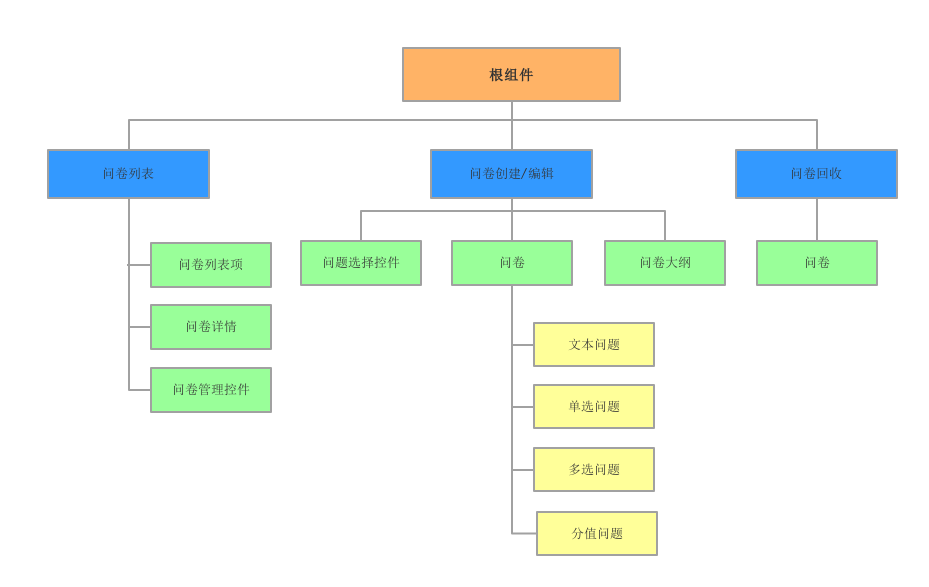
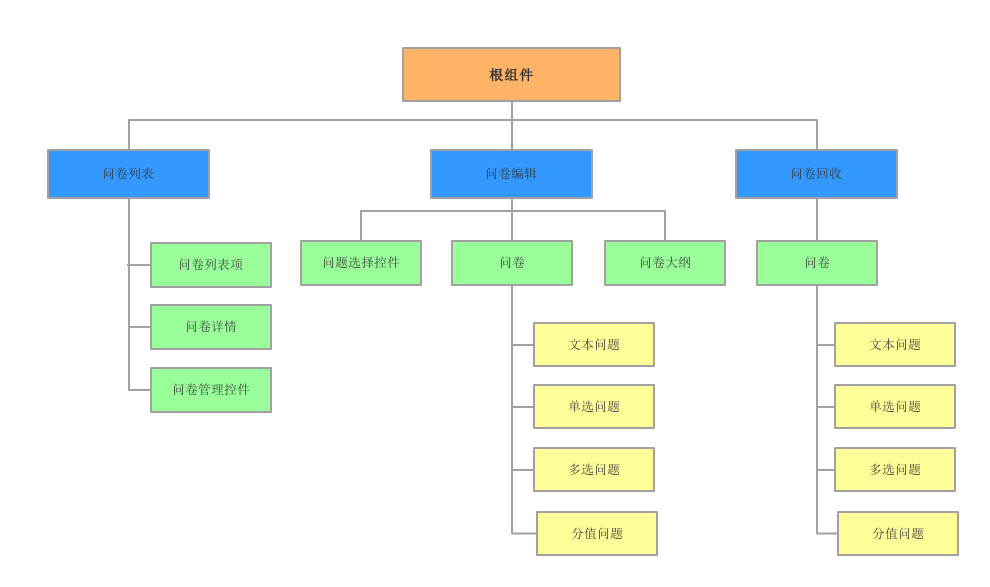
update 3.5

diff --git a/chapters/3.5.md b/chapters/3.5.md
@@ -2,15 +2,94 @@
 
 学习了用户管理功能之后，相信大家对Angular2组件的开发步骤有个进一步的了解。本章开始介绍问卷功能的开发。相比用户管理而言，问卷管理是更为复杂的功能，涉及更多的组件，也是整个问卷调查系统最核心的功能。为了简便起见，本章将主要针对问卷创建页面做详细的说明，其他相关页面可参考附录中的代码库。
 
-## 5.1 组件树和数据建模
+## 5.1 组件树和数据模型
 
-Angular2采用的是基于组件的开发模式，因此在正式开始代码编写之前，本节将首先对问卷管理特别是问卷创建功能涉及到的组件以及它们之间的关联关系做一个简单的说明。
+Angular2采用的是基于组件的开发模式，因此在正式开始代码编写之前，本节将首先对问卷管理特别是问卷编辑功能涉及到的组件以及它们之间的关联关系做一个简单的说明。
 
-### 5.1.2 组件树
+### 5.1.1 组件树
 
 在第二章中，我们介绍到了整个项目的组件树，这里针对问卷管理功能进一步细化，给出更为具体的组件树，如下图所示：
 
 ![MacDown tree](https://github.com/gf-rd/gf-angular2-book/blob/master/_images/ch3/5-1.png)
+
+可以看到，问卷管理部分主要分为问卷编辑、问卷列表和问卷回收三个主要功能，分别对应三类一级组件。
+
+#### 问卷编辑
+
+问卷编辑页可以创建新的问卷，也可以编辑已有问卷。问卷创建者通过问卷选择控件在问卷中添加新的问题，为了实时查看问卷已有问题，同时提供了问卷大纲功能。剩下的就是问卷编辑页面核心的问卷部分了，这里我们可以编辑开始语、结束语以及所有相关的问题。因此问卷编辑组件下包含问卷选择控件、问卷大纲和问卷三个子组件，并且问卷组件下包含有不同类型的问题组件。
+
+#### 问卷列表
+
+问卷列表页展示了问卷创建者创建的所有问卷，点击单个问卷项可以查看问卷详情。除此之外，还有一个问卷管理控件，包含问卷编辑、预览、发布等功能菜单。因此，问卷列表控件下包含了问卷列表项、问卷详情和问卷管理控件三个子组件。
+
+#### 问卷回收
+
+问卷编辑完成后，就可以点击发布进行问卷回收。问卷回收组件下包含有一个问卷子组件，且问卷组件下包含有不同类型的问题组件。
+
+至此，相信大家对问卷管理功能涉及到的组件以及它们之间的关系已经有个一个大概的了解。不过在正式进入到组件的开发过程之前，为了更好的帮助读者了解前后端的数据交互和组件功能，接下来将首先介绍下组件开发中会使用到的数据模型。
+
+### 5.1.2 数据模型
+
+本例中主要涉及到两类核心的数据模型，问卷模型和问题模型。接下来将对它们包含的属性及属性的含义做展开介绍。
+
+#### 问卷模型
+
+问卷模型是描述一个调查问卷的基本数据结构，包含了问卷所有的核心要素。完整的数据结构定义如下：
+
+	export interface QuestionnaireModel{
+  	  id?:number;	//问卷ID
+  	  title:string;	//问卷标题
+   	  owner:number;	//作者ID
+	  starter:string;	//开始问候语
+  	  ending:string;	//结束问候语
+	  state:QuestionnaireState;	//问卷状态
+	  questionList: QuestionModel[];	//问题列表
+	  createDate?:string;	//创建日期
+ 	}
+
+ 这里我们使用了接口去定义一个问卷模型，接下来将针对这些属性做逐一说明。
+
+ id的类型是数值型，是问卷的唯一性标识，属性后?号标识在使用接口的时候，该属性是非必须的，因为在问卷的id是在问卷保存的时候由后台自动生成的，所以在创建问卷阶段问卷的id是未知的。
+
+ owner是问卷作者的ID标识，可以根据该标识获取到问卷创建者的详细信息。
+
+ state是指问卷当前所处的状态，QuestionnaireState是一个枚举类型，每个枚举项分别对应着问卷的已创建状态、发布回收状态和完成状态。其中发布回收状态表示问卷已经对外发布，处于回收问卷填写信息阶段，完成状态表示问卷已经结束回收，调查通道也已关闭。问卷状态的定义如下：
+
+	export const enum QuestionnaireState{
+  	  Created,
+ 	  Published,
+  	  Finished
+	}
+
+ title、starter、ending以及创建时间都是简单的字符串类型，分别表示问卷的标题、开始问候语、结束问候语和问卷创建日期。
+
+questionList是构成问卷的问题列表，是一个数组类型。每个数组元素对应一个问题，QuestionModel是问题的类型定义，接下来就针对此类型做详细说明。
+
+#### 问题模型
+
+问题是构建一个问卷的基础，问卷模型详细的描述了一个完整的问题所需的基本要素。问卷的数据结构定义如下：
+
+	export interface QuestionModel{
+  	  title:string;	//问题标题（描述）
+  	  type:QuestionType;	//问题类型
+  	  options?:any[];	//答案选项
+  	  answer:any;	//问题答案
+	}
+
+和问卷模型类似，我们同样使用接口去定义一个问题模型。
+
+title是问题的标题，类型是字符串类型，用来描述一个问题。
+
+type属性标识问题的类型，或者可以说是问题控件的类型，这里使用了枚举类型QuestionType作为type的数据类型。目前程序支持的问题类型主要有文本题、单选题、多选题和分值题四类。QuestionType的枚举定义如下：
+
+	export const enum QuestionType{
+	  Text,
+	  SingleSelect,
+	  MultiSelect,
+	  Score
+	}
+
+options属性对应着答案的选项，因为不是所有的问题都具备可选择的答案选项，所以该属性是一个可选属性。在我们的例子中，单选题和多选题都具有可选的答案选型，而文本题和分值题则无此属性。这里需要特别说明的是为了方便扩展，我们并没有为options属性设置特定的数据类型，而是使用了any关键字标识。
 
 ## 5.2 简单的问卷创建页面
 

diff --git a/chapters/3.3.md b/chapters/3.3.md
@@ -566,70 +566,6 @@ export class HomeComponent {
 
 [1]: https://raw.githubusercontent.com/gf-rd/gf-angular2-book/master/_images/chapters3/3.2.3.png
 
-#### 3.2.4 数据建模
-
-为了更好的理解前后端的数据交互和组件功能，在正式开始组件的开发之前，首先介绍下项目中涉及到的数据模型。 本例中主要涉及到两类核心的数据模型，问卷模型和问题模型。接下来将对它们包含的属性及属性的含义做展开介绍。
-
-###### 问卷模型
-
-问卷模型是描述一个调查问卷的基本数据结构，包含了问卷所有的核心要素。完整的数据结构定义如下：
-
-	export interface QuestionnaireModel{
-  	  id?:number;	//问卷ID
-  	  title:string;	//问卷标题
-   	  owner:number;	//作者ID
-	  starter:string;	//开始问候语
-  	  ending:string;	//结束问候语
-	  state:QuestionnaireState;	//问卷状态
-	  questionList: QuestionModel[];	//问题列表
-	  createDate?:string;	//创建日期
- 	}
-
- 这里我们使用了接口去定义一个问卷模型，接下来将针对这些属性做逐一说明。
-
- id的类型是数值型，是问卷的唯一性标识，属性后?号标识在使用接口的时候，该属性是非必须的，因为在问卷的id是在问卷保存的时候由后台自动生成的，所以在创建问卷阶段问卷的id是未知的。
-
- owner是问卷作者的ID标识，可以根据该标识获取到问卷创建者的详细信息。
-
- state是指问卷当前所处的状态，QuestionnaireState是一个枚举类型，每个枚举项分别对应着问卷的创建状态、编辑状态、发布回收状态和完成状态。其中发布回收状态表示问卷已经对外发布，处于回收问卷填写信息阶段，完成状态表示问卷已经结束回收，调查通道也已关闭。问卷状态的定义如下：
-
-	export const enum QuestionnaireState{
-  	  Create,
-	  Edit,
- 	  Published,
-  	  Finished
-	}
-
- title、starter、ending以及创建时间都是简单的字符串类型，分别表示问卷的标题、开始问候语、结束问候语和问卷创建日期。
-
-questionList是构成问卷的问题列表，是一个数组类型。每个数组元素对应一个问题，QuestionModel是问题的类型定义，接下来就针对此类型做详细说明。
-
-###### 问题模型
-
-问题是构建一个问卷的基础，问卷模型详细的描述了一个完整的问题所需的基本要素。问卷的数据结构定义如下：
-
-	export interface QuestionModel{
-  	  title:string;	//问题标题（描述）
-  	  type:QuestionType;	//问题类型
-  	  options?:any[];	//答案选项
-  	  answer:any;	//问题答案
-	}
-
-和问卷模型类似，我们同样使用接口去定义一个问题模型。
-
-title是问题的标题，类型是字符串类型，用来描述一个问题。
-
-type属性标识问题的类型，或者可以说是问题控件的类型，这里使用了枚举类型QuestionType作为type的数据类型。目前程序支持的问题类型主要有文本题、单选题、多选题和分值题四类。QuestionType的枚举定义如下：
-
-	export const enum QuestionType{
-	  Text,
-	  SingleSelect,
-	  MultiSelect,
-	  Score
-	}
-
-options属性对应着答案的选项，因为不是所有的问题都具备可选择的答案选项，所以该属性是一个可选属性。在我们的例子中，单选题和多选题都具有可选的答案选型，而文本题和分值题则无此属性。这里需要特别说明的是为了方便扩展，我们并没有为options属性设置特定的数据类型，而是使用了any关键字标识。
-
 #### 3.2.5 总结
 
 本章节首先介绍了项目使用到的技术，接下来结合这些技术实现了前后台环境的搭建。
